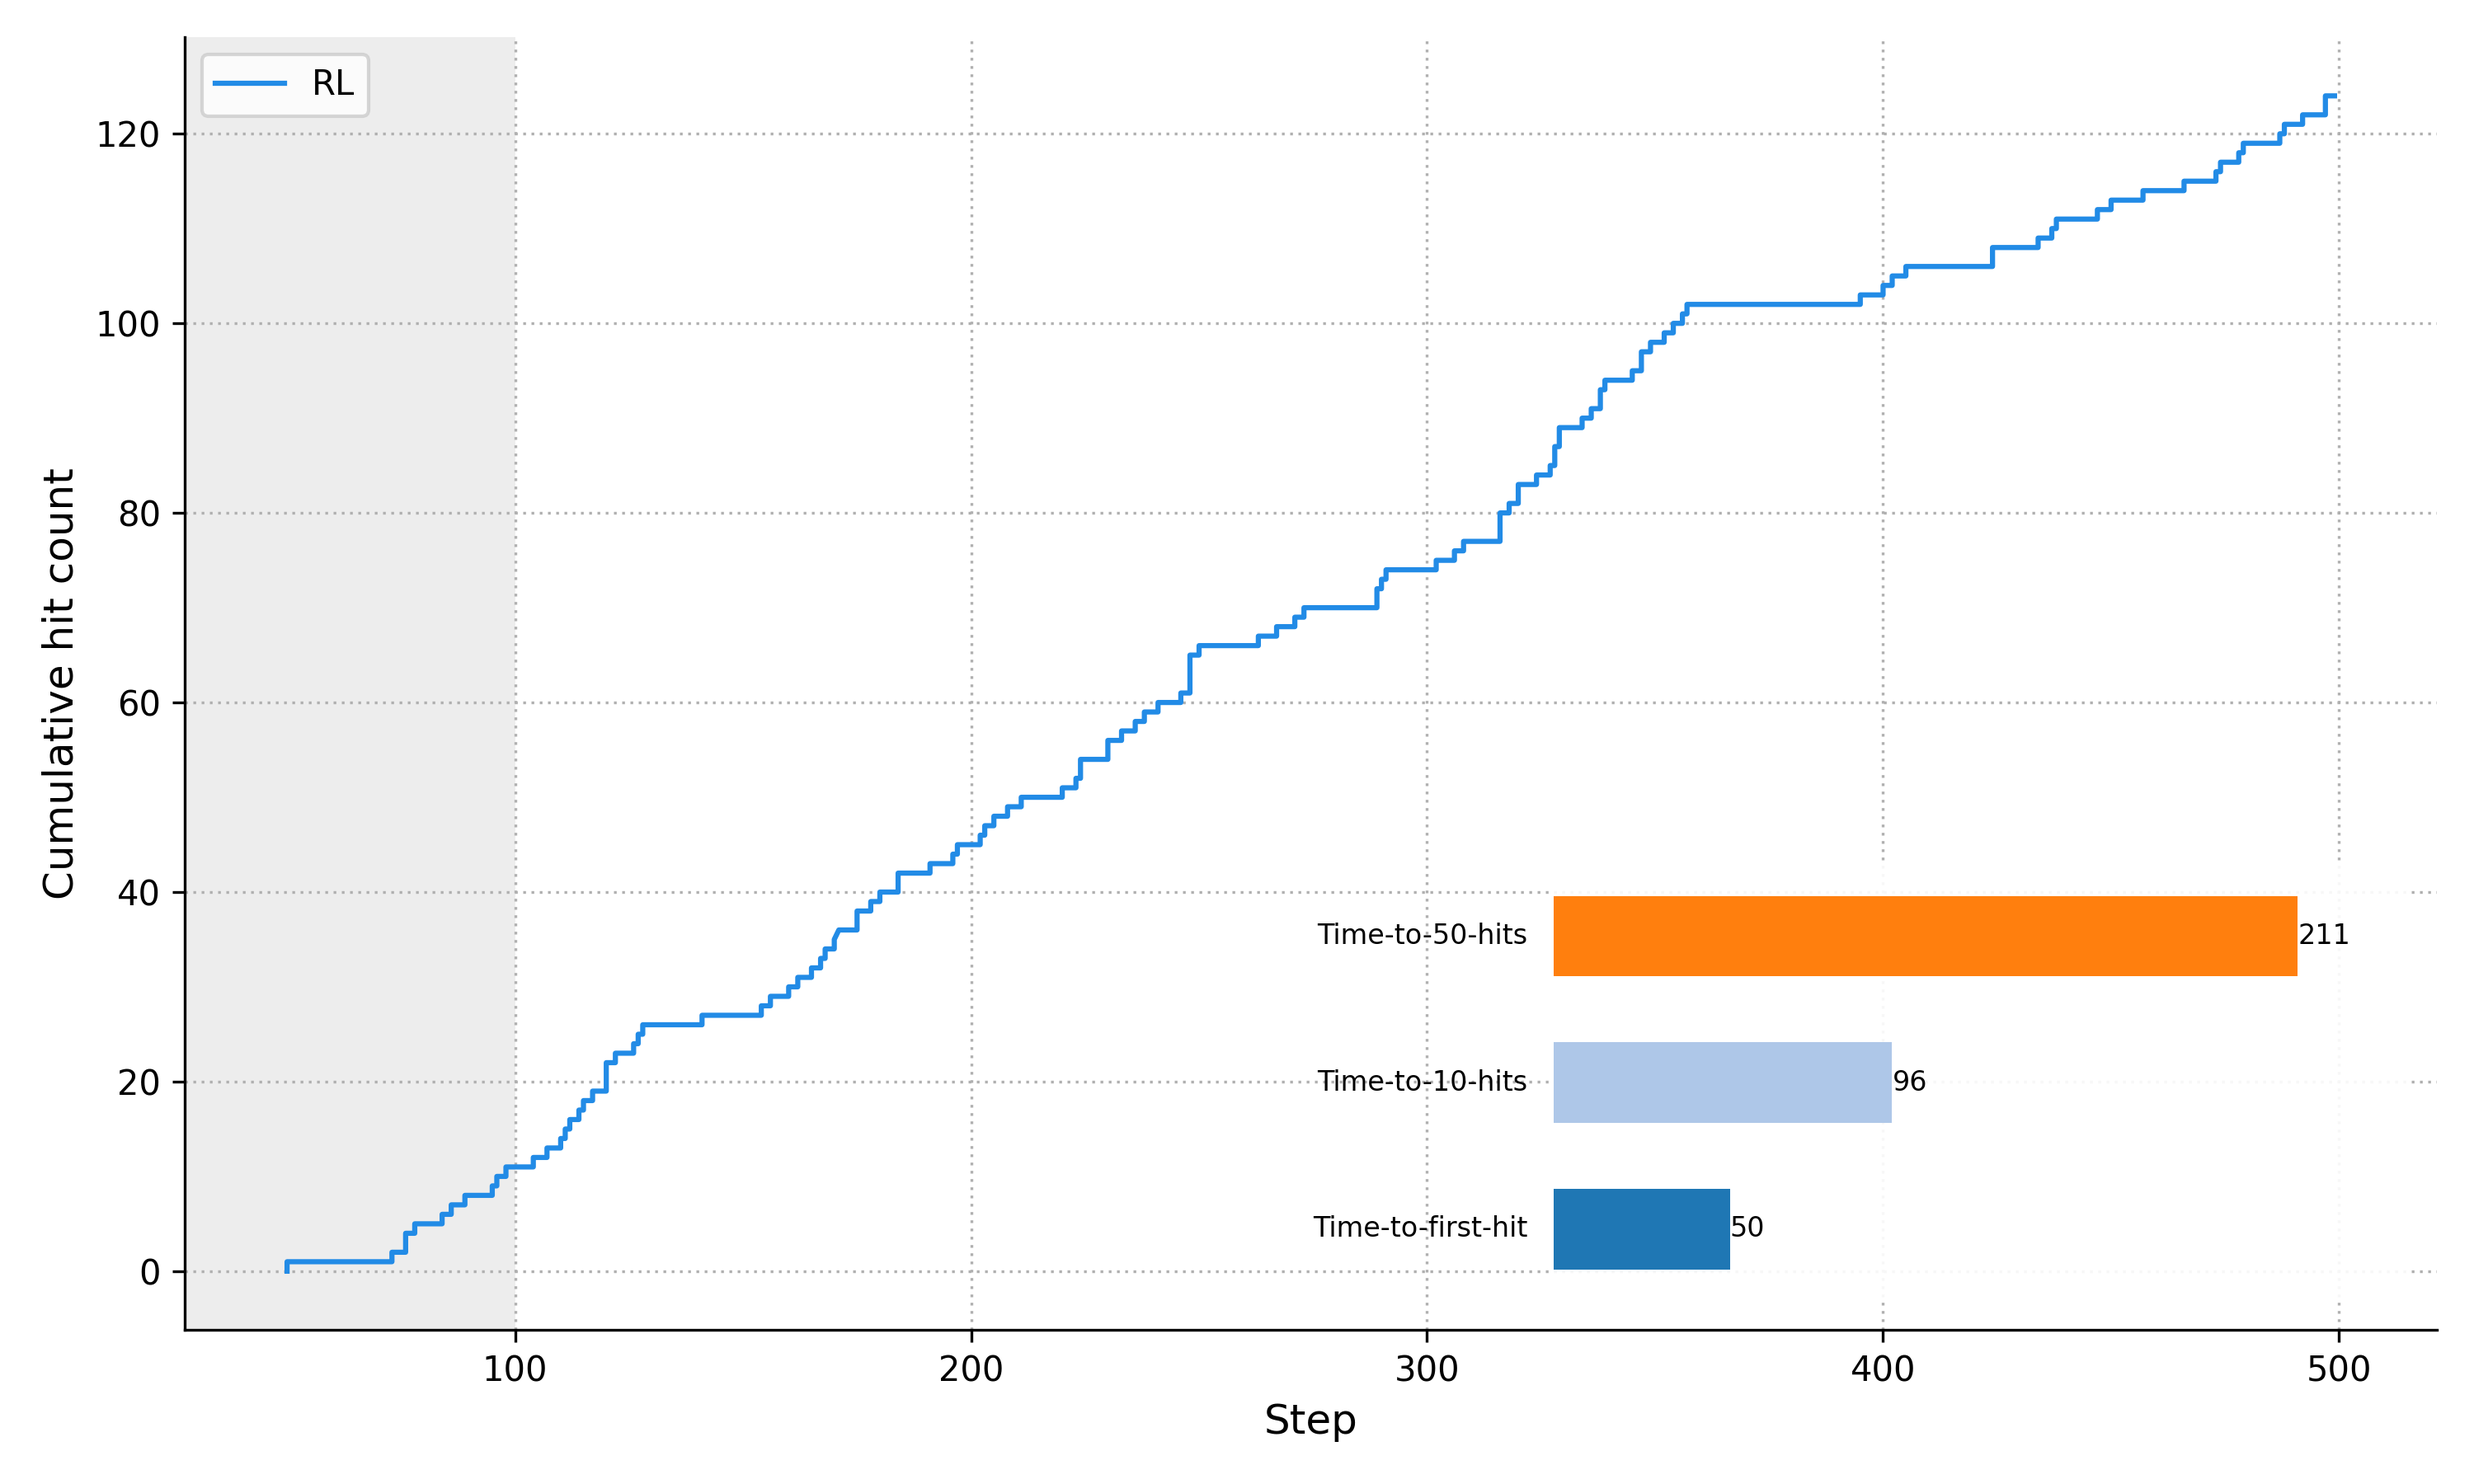
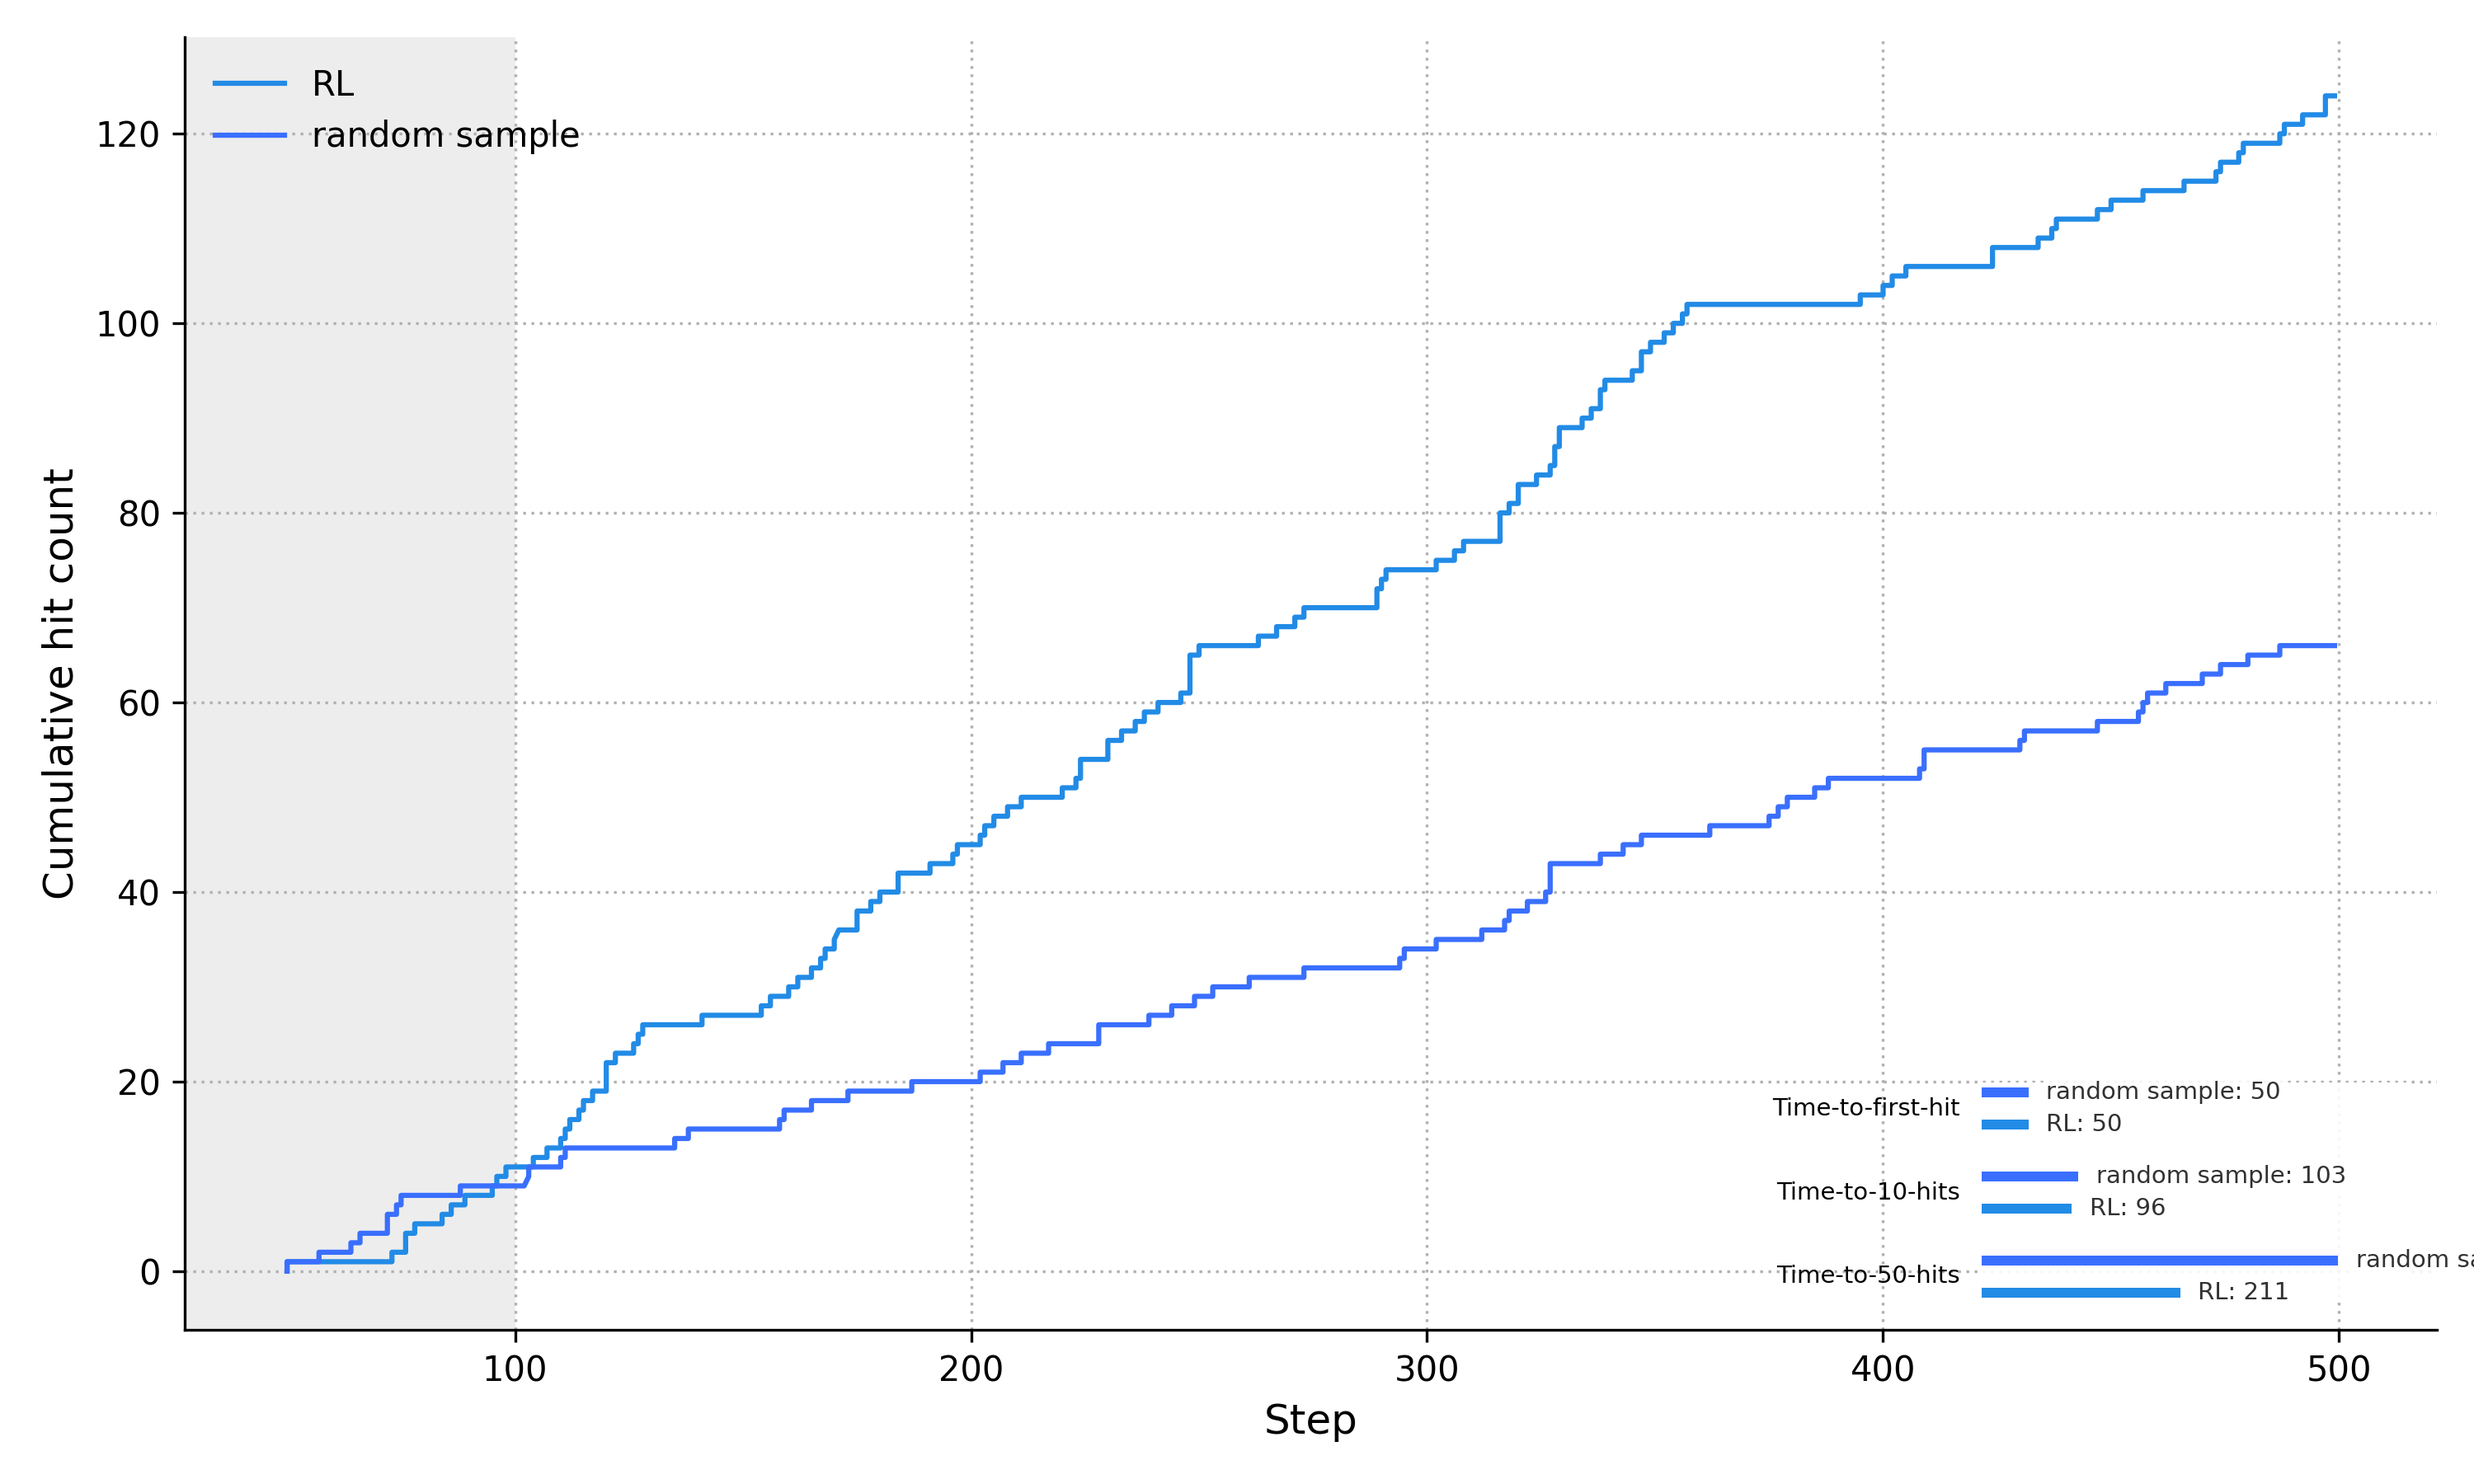
add symmetry score for 6 points

diff --git a/MD_and_GD_as_char_based_model/draw_picture/hit_count.py b/MD_and_GD_as_char_based_model/draw_picture/hit_count.py
@@ -228,10 +228,19 @@ def compute_time_to_hits(
 	return results
 
 
+
+def _format_threshold_label(threshold: int) -> str:
+	"""Return a human-friendly label for a hit threshold."""
+
+	if threshold == 1:
+		return "Time-to-first-hit"
+	return f"Time-to-{threshold}-hits"
+
+
 def plot_curves(
 	curves: Sequence[CurveSpec],
 	datasets: Sequence[pd.DataFrame],
-	time_to_hits: Sequence[Optional[float]],
+	time_to_hits_per_curve: Sequence[Sequence[Optional[float]]],
 	hit_thresholds: Sequence[int],
 	output_path: Optional[Path],
 	step_col: str,
@@ -275,34 +284,56 @@ def plot_curves(
 	ax.spines["top"].set_visible(False)
 	ax.spines["right"].set_visible(False)
 
-	ax.legend()
+	ax.legend(loc="upper left", frameon=False)
 	fig.tight_layout()
 
 	# Inset bar chart for time-to-hit metrics.
-	if hit_thresholds:
+	if hit_thresholds and time_to_hits_per_curve:
 		inset_ax = inset_axes(
 			ax,
-			width="38%",
-			height="34%",
+			width="19%",
+			height="17%",
 			loc="lower right",
 			borderpad=0.8,
 		)
 
-		label_texts: List[str] = []
-		for threshold in hit_thresholds:
-			if threshold == 1:
-				label_texts.append("Time-to-first-hit")
-			else:
-				label_texts.append(f"Time-to-{threshold}-hits")
+		ordered_indices = sorted(
+			range(len(hit_thresholds)), key=lambda idx: hit_thresholds[idx], reverse=True
+		)
+		n_curves = len(curves)
+		bar_height = 0.6 / max(n_curves, 1)
+		group_gap = 0.6
 
-		available_times = [time for time in time_to_hits if time is not None]
+		positions: List[float] = []
+		values: List[float] = []
+		colors: List[Tuple[float, float, float]] = []
+		labels: List[str] = []
+		value_labels: List[Optional[float]] = []
+
+		group_centers: List[float] = []
+		group_texts: List[str] = []
+
+		for group_idx, threshold_index in enumerate(ordered_indices):
+			threshold = hit_thresholds[threshold_index]
+			base = group_idx * (n_curves + group_gap)
+			group_centers.append(base + (n_curves - 1) / 2 if n_curves > 1 else base)
+			group_texts.append(_format_threshold_label(threshold))
+
+			for curve_idx, curve in enumerate(curves):
+				y_position = base + curve_idx
+				time_value = time_to_hits_per_curve[curve_idx][threshold_index]
+				positions.append(y_position)
+				values.append(time_value if time_value is not None else 0.0)
+				colors.append(curve.color)
+				labels.append(curve.label)
+				value_labels.append(time_value)
+
+		available_times = [value for value in values if value > 0]
 		max_time = max(available_times, default=0.0)
-		values = [time if time is not None else 0.0 for time in time_to_hits]
-		positions = np.arange(len(hit_thresholds))
-		color_map = plt.get_cmap("tab20")
-		colors = [color_map(i % color_map.N) for i in range(len(hit_thresholds))]
+		x_padding = max(1.0, max_time * 0.2)
+		x_max = max_time + x_padding
 
-		bars = inset_ax.barh(positions, values, height=0.55, color=colors)
+		bars = inset_ax.barh(positions, values, height=bar_height, color=colors)
 
 		face_rgba = ax.get_facecolor()
 		soft_bg = (
@@ -314,40 +345,47 @@ def plot_curves(
 		inset_ax.patch.set_facecolor(soft_bg)
 		inset_ax.patch.set_edgecolor((0.0, 0.0, 0.0, 0.05))
 
-		inset_ax.set_xlim(0, max_time * 1.1 + (max_time * 0.05 if max_time > 0 else 1.0))
-		inset_ax.set_ylim(-0.5, len(hit_thresholds) - 0.5)
+		y_min = -bar_height
+		y_max = (len(ordered_indices) - 1) * (n_curves + group_gap) + n_curves - 1 + bar_height
+		inset_ax.set_xlim(0, x_max)
+		inset_ax.set_ylim(y_min, y_max)
 		inset_ax.set_xticks([])
 		inset_ax.set_yticks([])
 		for spine in inset_ax.spines.values():
 			spine.set_visible(False)
 
 		yaxis_transform = inset_ax.get_yaxis_transform()
-		label_offset = -0.03
-		for bar, label_text, time_value in zip(bars, label_texts, time_to_hits):
-			y_pos = bar.get_y() + bar.get_height() / 2
+		label_offset = -0.05
+		for center, text in zip(group_centers, group_texts):
 			inset_ax.text(
 				label_offset,
-				y_pos,
-				label_text,
+				center,
+				text,
 				ha="right",
 				va="center",
-				fontsize=8,
+				fontsize=7,
 				transform=yaxis_transform,
 			)
 
+		text_gap = x_padding * 0.25
+		for bar, curve_label, time_value in zip(bars, labels, value_labels):
+			y_pos = bar.get_y() + bar.get_height() / 2
+			text_value = "∞" if time_value is None else f"{time_value:.0f}"
+			display_text = f"{curve_label}: {text_value}"
 			if time_value is None:
-				text_value = "∞"
-				x_pos = inset_ax.get_xlim()[1] * 0.95
+				x_anchor = text_gap
 			else:
-				text_value = f"{time_value:.0f}"
-				x_pos = bar.get_width()
+				x_anchor = bar.get_width() + text_gap
+			x_anchor = min(x_anchor, x_max - text_gap * 0.5)
 			inset_ax.text(
-				x_pos,
+				x_anchor,
 				y_pos,
-				text_value,
+				display_text,
 				ha="left",
 				va="center",
-				fontsize=8,
+				fontsize=7,
+				color=(0.15, 0.15, 0.15, 0.95),
+				bbox={"facecolor": "white", "alpha": 0.85, "edgecolor": "none", "pad": 0.5},
 			)
 
 	if output_path:
@@ -456,20 +494,10 @@ def main() -> None:
 			compute_time_to_hits(result, args.hit_thresholds, step_col=args.step_column)
 		)
 
-	# For the inset we use the metrics from the first curve by default; if multiple
-	# curves are supplied, we take the minimum time-to-hit across curves for each threshold.
-	if not time_to_hits_per_curve:
-		aggregated_time_to_hits: List[Optional[float]] = []
-	else:
-		aggregated_time_to_hits = []
-		for idx in range(len(args.hit_thresholds)):
-			values = [curve_times[idx] for curve_times in time_to_hits_per_curve if curve_times[idx] is not None]
-			aggregated_time_to_hits.append(min(values) if values else None)
-
 	plot_curves(
 		curves=curves,
 		datasets=datasets,
-		time_to_hits=aggregated_time_to_hits,
+		time_to_hits_per_curve=time_to_hits_per_curve,
 		hit_thresholds=args.hit_thresholds,
 		output_path=args.output,
 		step_col=args.step_column,

diff --git a/MD_and_GD_as_char_based_model/data_preparation/scoring_strategy/score_function.py b/MD_and_GD_as_char_based_model/data_preparation/scoring_strategy/score_function.py
@@ -164,6 +164,20 @@ def _decoration_pair_reward(decoration: str) -> float:
         if cluster_sizes == [1, 1, 2]:
             return 0.25
         return 0.0
+    if len(parts) == 6:
+        pair_indices = [(0, 3), (1, 4), (2, 5)]
+        pair_matches = [
+            1 if _is_identical(fps[first], fps[second]) else 0
+            for first, second in pair_indices
+        ]
+        match_count = sum(pair_matches)
+        if match_count == 3:
+            return 1.0
+        if match_count == 2:
+            return 0.5
+        if match_count == 1:
+            return 0.25
+        return 0.0
     if cluster_sizes == [2, 2]:
         return 1.0
     return 0.0

diff --git a/MD_and_GD_as_char_based_model/data_preparation/validate_single_smiles.py b/MD_and_GD_as_char_based_model/data_preparation/validate_single_smiles.py
@@ -21,7 +21,7 @@ def parse_args() -> argparse.Namespace:
     parser.add_argument(
         "--smiles",
         "-s",
-        default="[*:0]C1CC(O)(C(=O)CO)Cc2c(O)c3c(c(O)c21)C(=O)c1c(OC)cccc1C3=O",
+        default="[*:0]c1ccc(C(=C(c2ccccc2)c2ccc(OC)cc2)c2cccc(OC)c2)cc1",
         help="SMILES string to validate.",
     )
     parser.add_argument(
